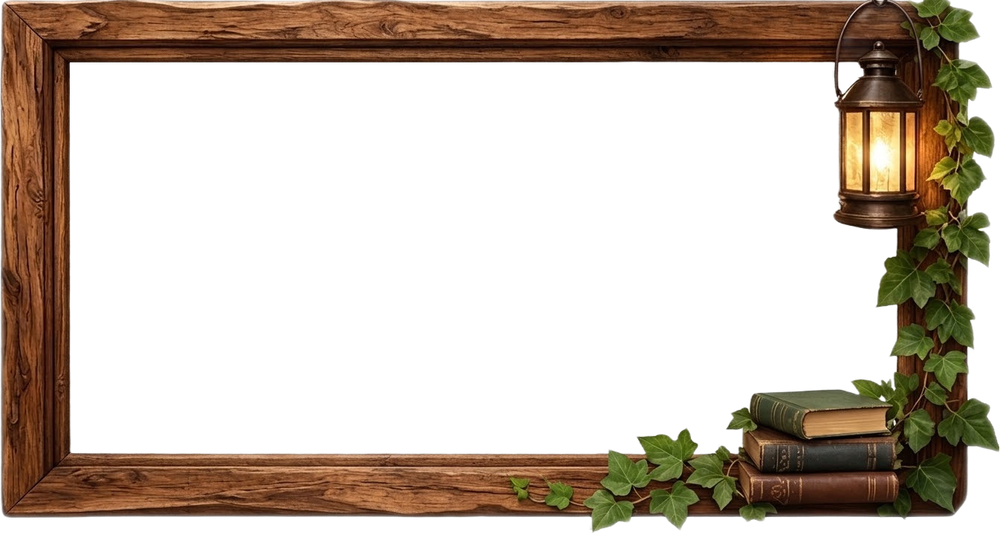
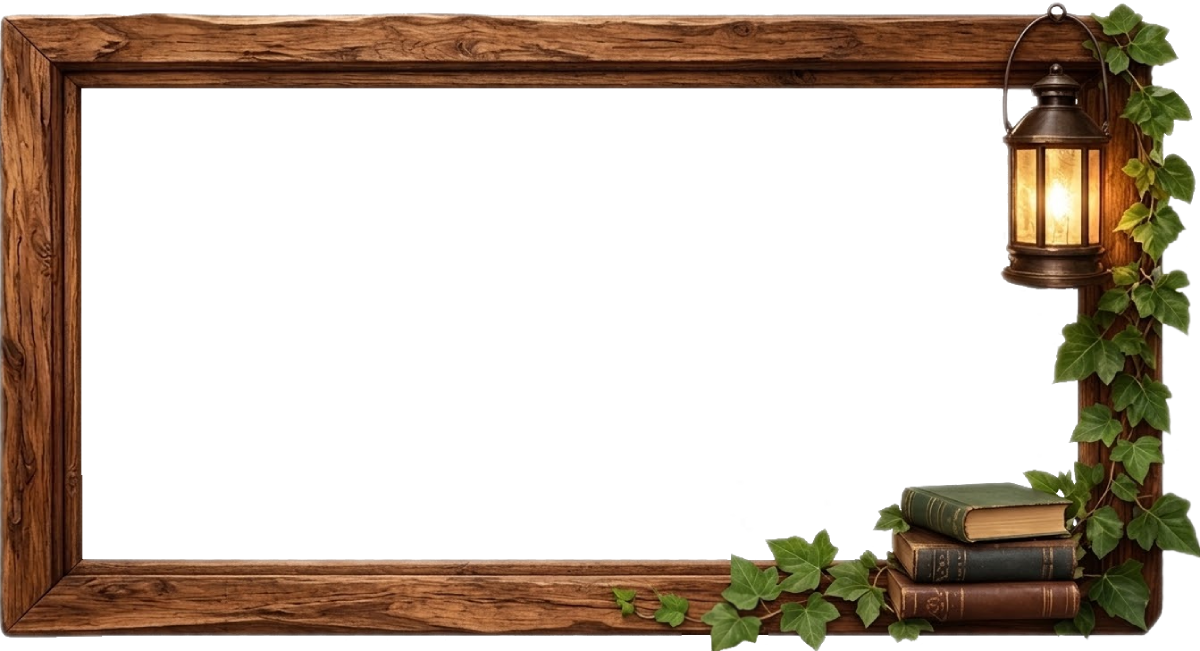
chore(相框库): 同步索引 + 修复安装目录残留，版本 0.2.2
相框库
- 横-木纹.png 换成 1200x651 更高分辨率源图；横-科技.png 换成更高版本
- 移除下载残留 横-科技1.png（已备份到 /tmp/frame-removed/），
  git 索引与磁盘重新对齐（29 = 29）

修复
- make install / scripts/install.sh 只覆盖同名文件，源码里删掉的相框会一直
  留在 share/omaframe/frame 并被程序列出来。现在改为先清空再拷贝，
  安装目录与源码目录始终一致（本次实测清掉了残留的 横-科技1.png）。

Changed region(s): [[0.0, 0.0, 1.0, 1.0]]

diff --git a/CHANGELOG.md b/CHANGELOG.md
@@ -3,6 +3,17 @@
 本项目遵循 [Keep a Changelog](https://keepachangelog.com/zh-CN/1.1.0/)，
 版本号遵循 [语义化版本](https://semver.org/lang/zh-CN/)。
 
+## [0.2.2] - 2026-10-01
+
+### 维护
+- 相框库更新：`横-木纹.png` 换成 1200×651 更高分辨率源图、`横-科技.png` 换成更高版本；
+  移除下载残留 `横-科技1.png`（git 索引已与磁盘对齐：29 = 29）
+
+### 修复
+- **安装目录从不清理陈旧相框**：`make install` / `scripts/install.sh` 只覆盖同名文件，
+  源码里删掉的相框会一直留在 `share/omaframe/frame` 里被程序列出来。
+  现在改为先清空再拷贝，保证安装目录与源码目录一致。
+
 ## [0.2.1] - 2026-10-01
 
 ### 新增
@@ -61,5 +72,6 @@
 - 菜单项 `Categories` 去掉重复主分类（原值会让它在菜单里出现两次）
 - 消除全部编译警告（0 warning）
 
+[0.2.2]: https://github.com/playGitboy/Omaframe/releases/tag/v0.2.2
 [0.2.1]: https://github.com/playGitboy/Omaframe/releases/tag/v0.2.1
 [0.2.0]: https://github.com/playGitboy/Omaframe/releases/tag/v0.2.0
